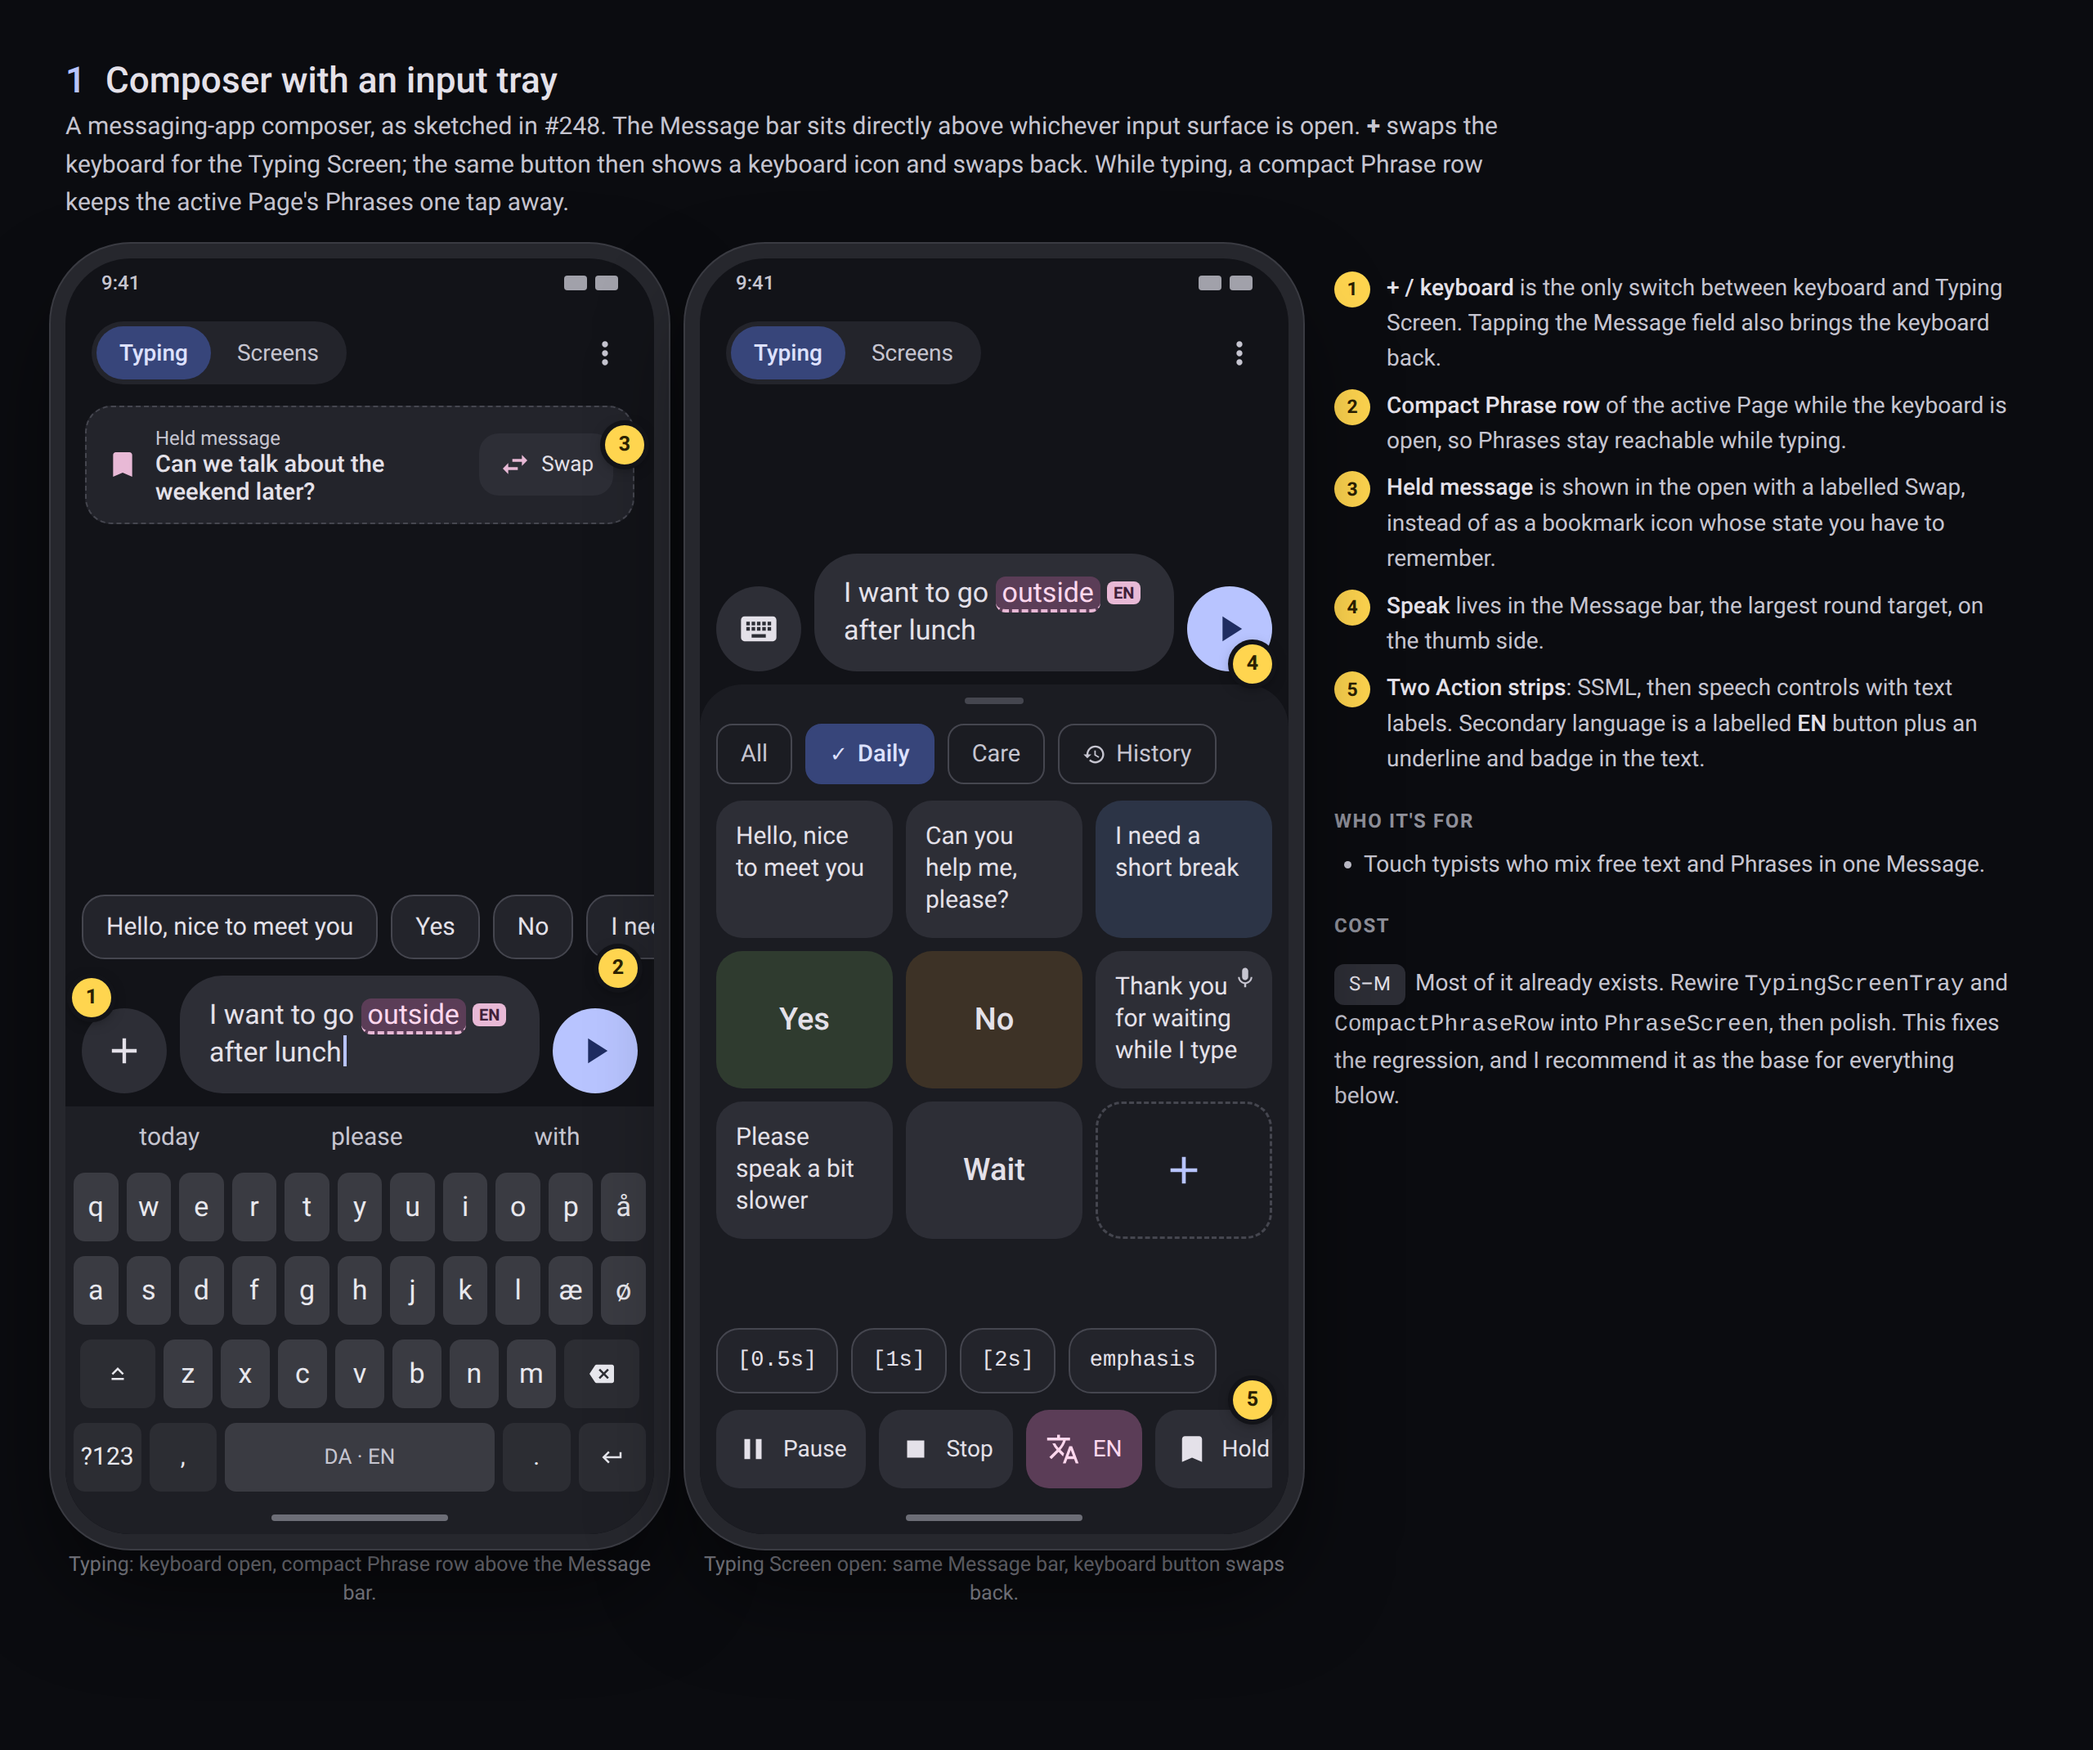
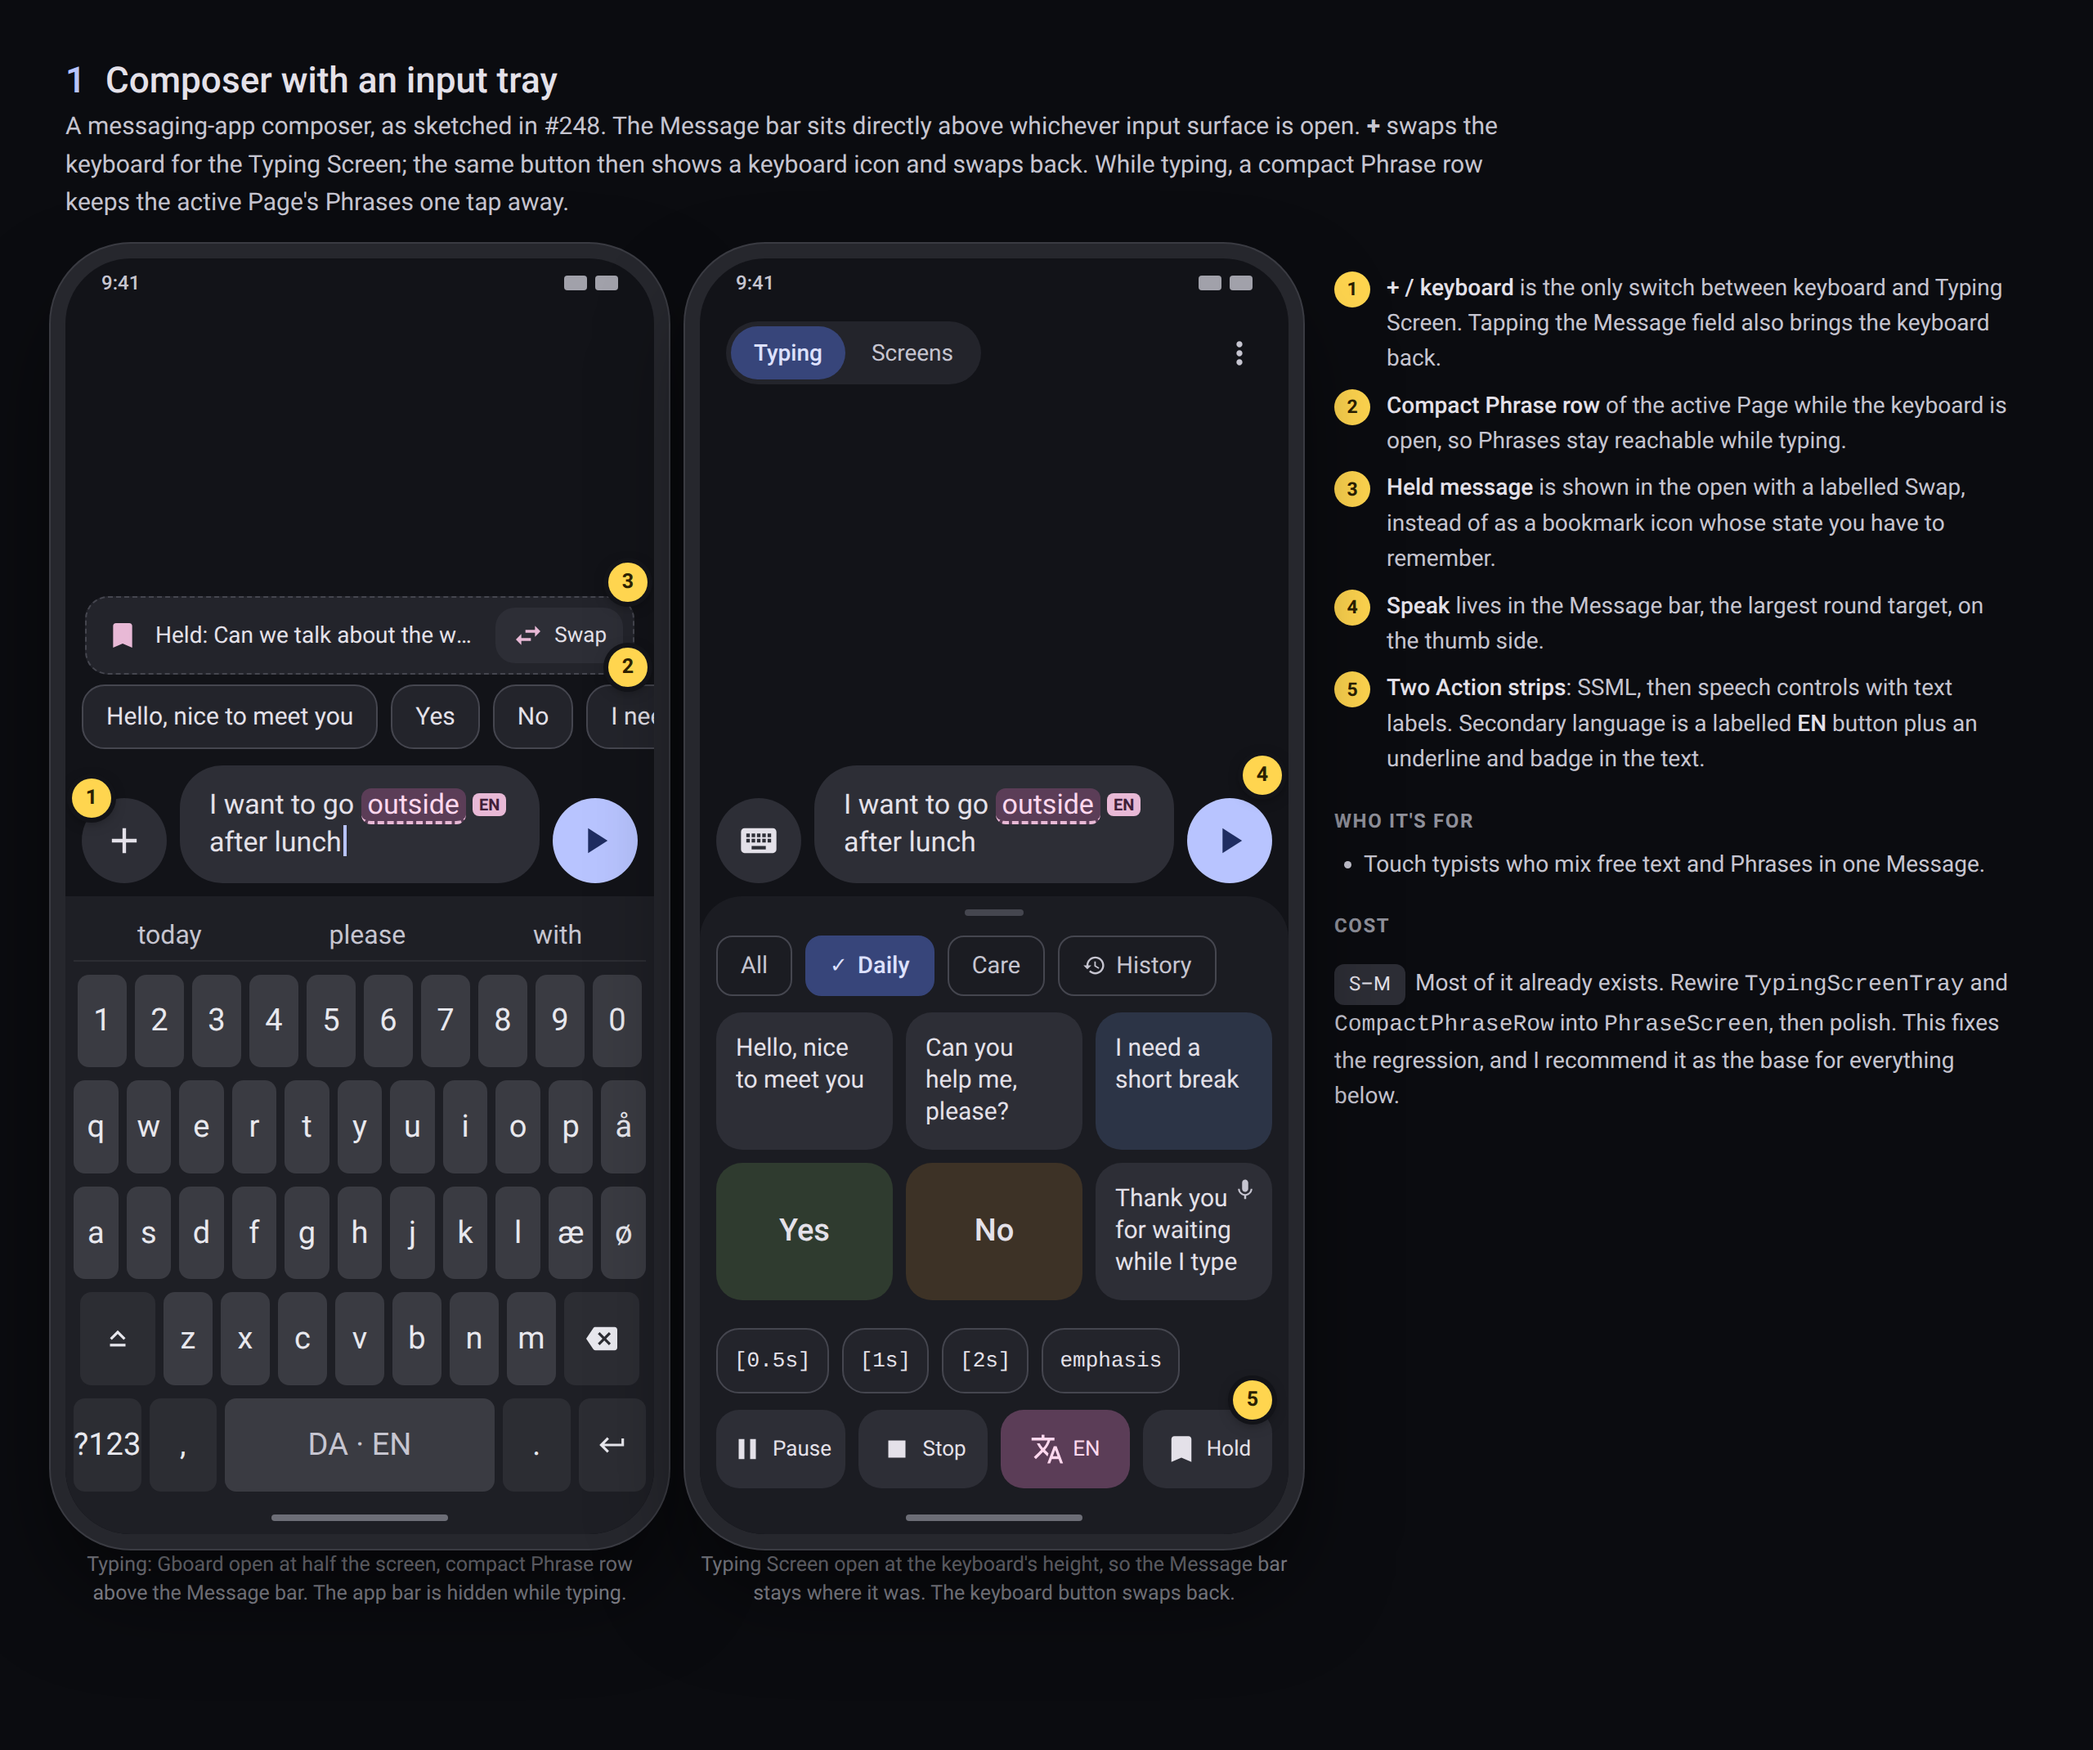
299: keyboard and tray at half the screen in layouts 1 and 4

diff --git a/299/typing-workspace-layouts.html b/299/typing-workspace-layouts.html
@@ -103,6 +103,17 @@
     font-size: 17px; color: #e8e8ee; }
   .kb .k.m { max-width: 46px; flex: 1.5; background: #2c2d33; font-size: 15px; }
   .kb .k.sp { max-width: 170px; flex: 6; font-size: 13px; color: var(--muted); }
+  /* Gboard at its usual height on Jonas's phone: half the screen, including the nav bar */
+  .kb.half { height: 370px; gap: 8px; padding-top: 10px; }
+  .kb.half .r { flex: 1; min-height: 0; }
+  .kb.half .k { height: auto; font-size: 19px; }
+  .kb.half .sug { font-size: 16px; padding: 4px 0 6px; border-bottom: 1px solid #2c2d33; }
+  .tray.half { flex: none; height: 370px; }
+  .tray.half .strip .btn { flex: 1; min-width: 0; padding: 0 6px; gap: 5px; justify-content: center; font-size: 13px; }
+  .tray.half .strip .btn.ssml { flex: none; padding: 0 10px; }
+  .held.one { padding: 6px 6px 6px 12px; border-radius: 14px; white-space: nowrap; }
+  .held.one .tx { overflow: hidden; text-overflow: ellipsis; min-width: 0; color: var(--on); }
+  .held.one .sw { padding: 7px 10px; }
 
   /* ---------- Typing Screen tray ---------- */
   .tray { background: var(--s1); border-radius: 26px 26px 0 0; flex: 1; min-height: 0; display: flex; flex-direction: column;
@@ -246,32 +257,32 @@
     <figure class="fig" style="margin:0">
       <div class="phone">
         <div class="sb"><span>9:41</span><span class="dots"><i></i><i></i></span></div>
-        <div class="bar"><div class="ws"><span class="on">Typing</span><span>Screens</span></div><span style="flex:1"></span><span class="ib" data-i="more"></span></div>
-        <div class="held"><span data-i="bookmark"></span><span><span style="font-size:12px">Held message</span><b>Can we talk about the weekend later?</b></span><span class="sw"><span data-i="swap"></span>Swap</span></div>
         <div style="flex:1"></div>
+        <div class="held one"><span data-i="bookmark"></span><span class="tx">Held: Can we talk about the weekend later?</span><span class="sw"><span data-i="swap"></span>Swap</span></div>
         <div class="compact"><span>Hello, nice to meet you</span><span>Yes</span><span>No</span><span>I need a short break</span></div>
         <div class="composer"><span class="round tonal" data-i="add"></span><div class="msg">I want to go <span class="secmark">outside</span><span class="lang">EN</span> after lunch<span class="caret"></span></div><span class="round speak" data-i="play"></span></div>
-        <div class="kb">
+        <div class="kb half">
           <div class="sug"><span>today</span><span>please</span><span>with</span></div>
+          <div class="r"><span class="k">1</span><span class="k">2</span><span class="k">3</span><span class="k">4</span><span class="k">5</span><span class="k">6</span><span class="k">7</span><span class="k">8</span><span class="k">9</span><span class="k">0</span></div>
           <div class="r"><span class="k">q</span><span class="k">w</span><span class="k">e</span><span class="k">r</span><span class="k">t</span><span class="k">y</span><span class="k">u</span><span class="k">i</span><span class="k">o</span><span class="k">p</span><span class="k">å</span></div>
           <div class="r"><span class="k">a</span><span class="k">s</span><span class="k">d</span><span class="k">f</span><span class="k">g</span><span class="k">h</span><span class="k">j</span><span class="k">k</span><span class="k">l</span><span class="k">æ</span><span class="k">ø</span></div>
           <div class="r"><span class="k m" data-i="shift"></span><span class="k">z</span><span class="k">x</span><span class="k">c</span><span class="k">v</span><span class="k">b</span><span class="k">n</span><span class="k">m</span><span class="k m" data-i="backspace"></span></div>
           <div class="r"><span class="k m">?123</span><span class="k m">,</span><span class="k sp">DA · EN</span><span class="k m">.</span><span class="k m" data-i="enter"></span></div>
         </div>
         <div class="nav" style="background:#1e1f25"></div>
-        <span class="co" style="top:440px;left:4px">1</span>
-        <span class="co" style="top:102px;right:6px">3</span>
-        <span class="co" style="top:422px;right:10px">2</span>
+        <span class="co" style="top:318px;left:4px">1</span>
+        <span class="co" style="top:186px;right:4px">3</span>
+        <span class="co" style="top:238px;right:4px">2</span>
       </div>
-      <figcaption>Typing: keyboard open, compact Phrase row above the Message bar.</figcaption>
+      <figcaption>Typing: Gboard open at half the screen, compact Phrase row above the Message bar. The app bar is hidden while typing.</figcaption>
     </figure>
     <figure class="fig" style="margin:0">
       <div class="phone">
         <div class="sb"><span>9:41</span><span class="dots"><i></i><i></i></span></div>
         <div class="bar"><div class="ws"><span class="on">Typing</span><span>Screens</span></div><span style="flex:1"></span><span class="ib" data-i="more"></span></div>
-        <div style="flex:.18"></div>
+        <div style="flex:1"></div>
         <div class="composer"><span class="round tonal" data-i="keyboard"></span><div class="msg">I want to go <span class="secmark">outside</span><span class="lang">EN</span> after lunch</div><span class="round speak" data-i="play"></span></div>
-        <div class="tray">
+        <div class="tray half">
           <div class="grab"></div>
           <div class="pages"><span>All</span><span class="on">Daily</span><span>Care</span><span data-i-before="history">History</span></div>
           <div class="coll">
@@ -281,18 +292,15 @@
             <div class="p c col-a">Yes</div>
             <div class="p c col-b">No</div>
             <div class="p"><span class="tx">Thank you for waiting while I type</span><span class="rec" data-i="mic"></span></div>
-            <div class="p"><span class="tx">Please speak a bit slower</span></div>
-            <div class="p c">Wait</div>
-            <div class="p add" data-i="add"></div>
           </div>
           <div class="strip"><span class="btn ssml">[0.5s]</span><span class="btn ssml">[1s]</span><span class="btn ssml">[2s]</span><span class="btn ssml">emphasis</span></div>
           <div class="strip"><span class="btn" data-i-before="pause">Pause</span><span class="btn" data-i-before="stop">Stop</span><span class="btn sec" data-i-before="translate">EN</span><span class="btn" data-i-before="bookmark">Hold</span></div>
         </div>
         <div class="nav" style="background:var(--s1)"></div>
-        <span class="co" style="top:236px;right:10px">4</span>
+        <span class="co" style="top:304px;right:4px">4</span>
         <span class="co" style="top:686px;right:10px">5</span>
       </div>
-      <figcaption>Typing Screen open: same Message bar, keyboard button swaps back.</figcaption>
+      <figcaption>Typing Screen open at the keyboard's height, so the Message bar stays where it was. The keyboard button swaps back.</figcaption>
     </figure>
     <div class="notes">
       <ol class="key">
@@ -432,33 +440,32 @@
     <figure class="fig" style="margin:0">
       <div class="phone">
         <div class="sb"><span>9:41</span><span class="dots"><i></i><i></i></span></div>
-        <div class="bar"><div class="ws"><span class="on">Typing</span><span>Screens</span></div><span style="flex:1"></span><span class="ib" data-i="more"></span></div>
         <div class="conv">
-          <div class="day">Today</div>
-                    <div class="partner"><span data-i="mic" style="font-size:16px"></span>Partner's turn, nothing is recorded</div>
           <div><div class="said"><span class="re" data-i="replay"></span><span class="bub">I would like a coffee with oat milk, please</span></div><div class="meta">10:04</div></div>
           <div><div class="said"><span class="re" data-i="replay"></span><span class="bub">Thank you for waiting while I type</span></div><div class="meta">10:05 · just now</div></div>
         </div>
-        <div class="held" style="margin:0 12px 6px"><span data-i="bookmark"></span><span><span style="font-size:12px">Held message</span><b>Can we talk about the weekend later?</b></span><span class="sw"><span data-i="swap"></span>Swap</span></div>
+        <div class="held one" style="margin:0 12px 4px"><span data-i="bookmark"></span><span class="tx">Held: Can we talk about the weekend later?</span><span class="sw"><span data-i="swap"></span>Swap</span></div>
         <div class="compact"><span>Yes</span><span>No</span><span>Wait</span><span>Can you repeat that?</span></div>
         <div class="composer"><span class="round tonal" data-i="add"></span><div class="msg"><span class="ph">Type a message…</span></div><span class="round speak" data-i="play"></span></div>
-        <div class="kb">
+        <div class="kb half">
+          <div class="sug"><span>Yes</span><span>I</span><span>Thanks</span></div>
+          <div class="r"><span class="k">1</span><span class="k">2</span><span class="k">3</span><span class="k">4</span><span class="k">5</span><span class="k">6</span><span class="k">7</span><span class="k">8</span><span class="k">9</span><span class="k">0</span></div>
           <div class="r"><span class="k">q</span><span class="k">w</span><span class="k">e</span><span class="k">r</span><span class="k">t</span><span class="k">y</span><span class="k">u</span><span class="k">i</span><span class="k">o</span><span class="k">p</span><span class="k">å</span></div>
           <div class="r"><span class="k">a</span><span class="k">s</span><span class="k">d</span><span class="k">f</span><span class="k">g</span><span class="k">h</span><span class="k">j</span><span class="k">k</span><span class="k">l</span><span class="k">æ</span><span class="k">ø</span></div>
           <div class="r"><span class="k m" data-i="shift"></span><span class="k">z</span><span class="k">x</span><span class="k">c</span><span class="k">v</span><span class="k">b</span><span class="k">n</span><span class="k">m</span><span class="k m" data-i="backspace"></span></div>
           <div class="r"><span class="k m">?123</span><span class="k sp">DA · EN</span><span class="k m">.</span><span class="k m" data-i="enter"></span></div>
         </div>
         <div class="nav" style="background:#1e1f25"></div>
-        <span class="co" style="top:306px;left:52px">1</span>
-        <span class="co" style="top:146px;left:292px">2</span>
-        <span class="co" style="top:388px;right:10px">3</span>
+        <span class="co" style="top:30px;left:4px">1</span>
+        <span class="co" style="top:62px;right:12px">2</span>
+        <span class="co" style="top:222px;left:2px">3</span>
       </div>
-      <figcaption>Replay speaks again; tapping the bubble itself loads it into the Message for editing.</figcaption>
+      <figcaption>Gboard at half the screen leaves room for the last couple of Messages. Replay speaks again; tapping the bubble loads it into the Message.</figcaption>
     </figure>
     <div class="notes">
       <ol class="key">
         <li><b class="k">1</b><span><b>Replay</b> is a separate 44dp button. Tapping the bubble loads it into the Message. Two targets, two clear results, no long-press needed.</span></li>
-        <li><b class="k">2</b><span>The thread shows only what Wingmate spoke, so nothing from the partner is ever captured. The dashed note is a hint, not a recording.</span></li>
+        <li><b class="k">2</b><span>The thread shows only what Wingmate spoke, so nothing from the partner is ever captured.</span></li>
         <li><b class="k">3</b><span><b>Held message</b> sits between the thread and the composer: visibly "set aside, not said yet".</span></li>
       </ol>
       <h3>Who it's for</h3>
